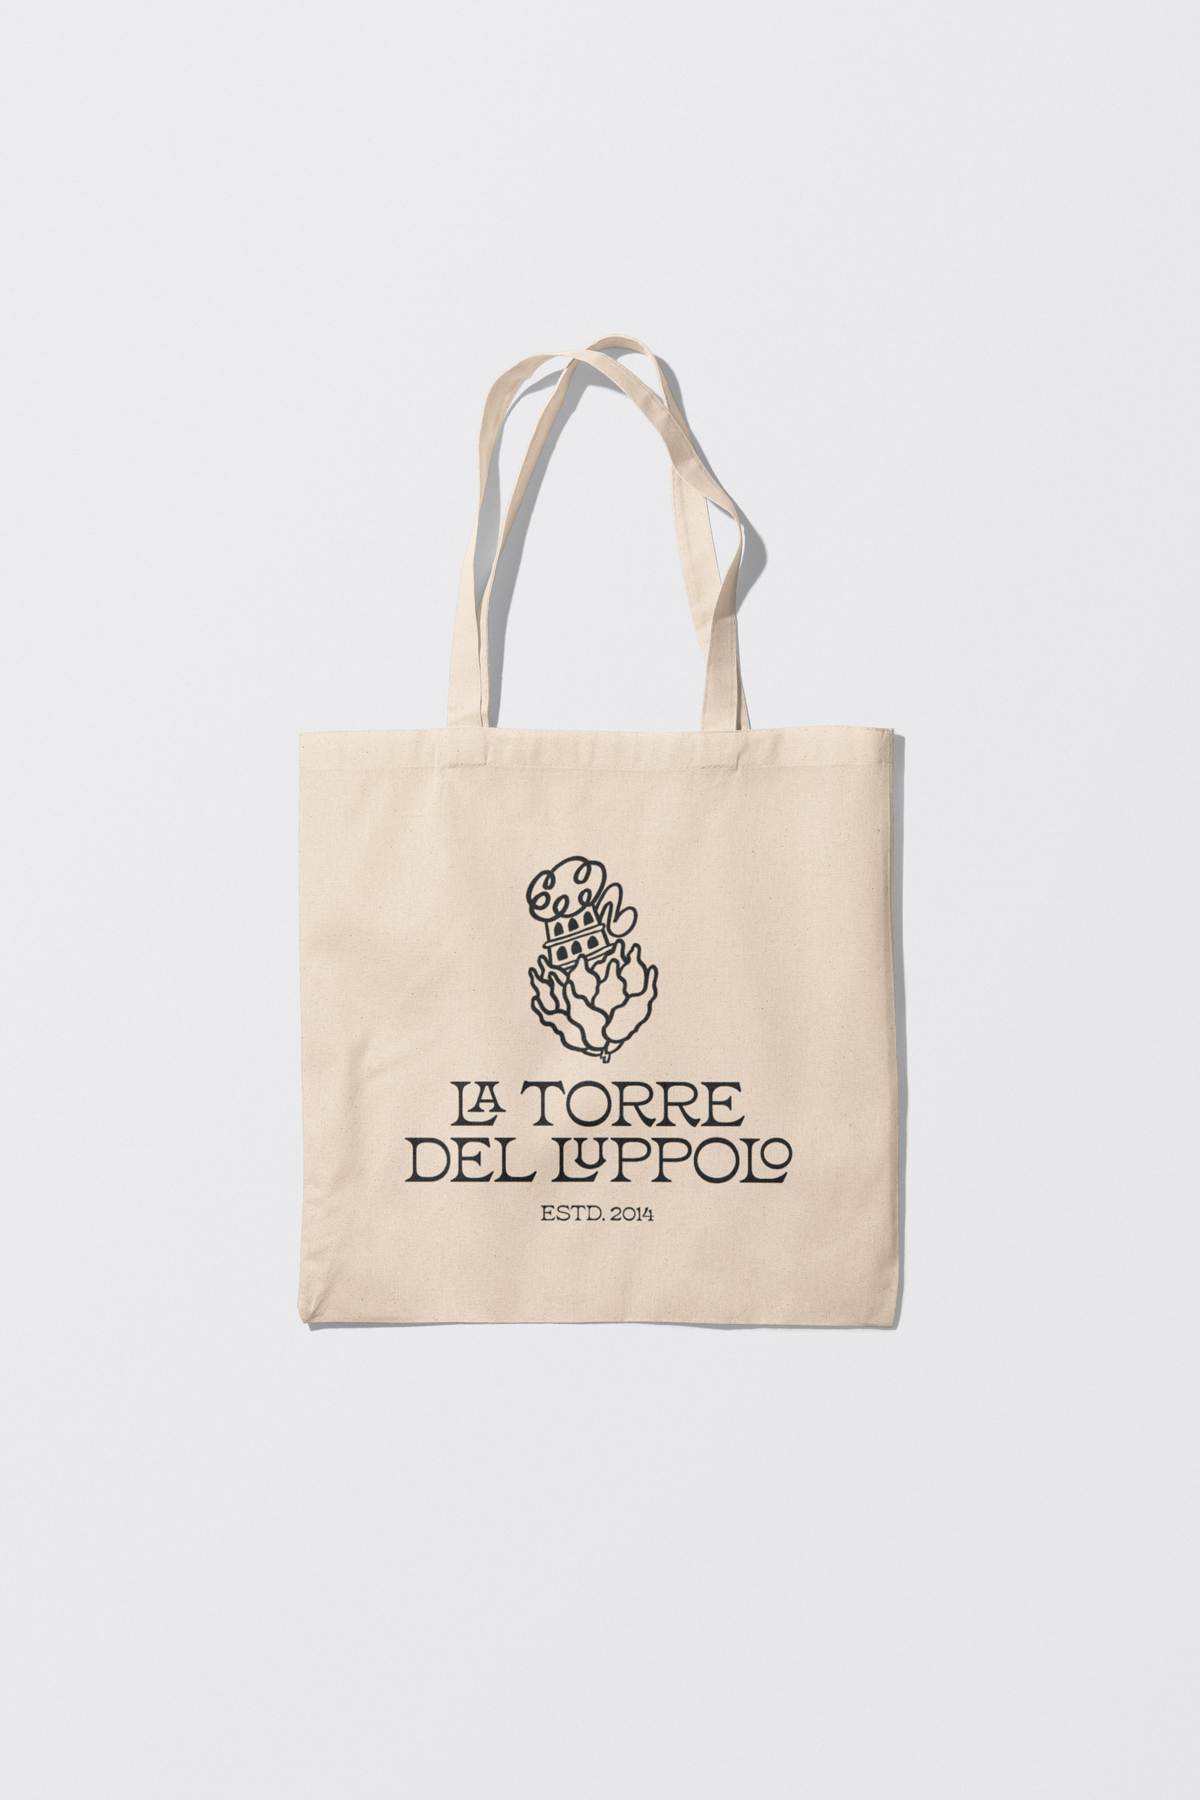
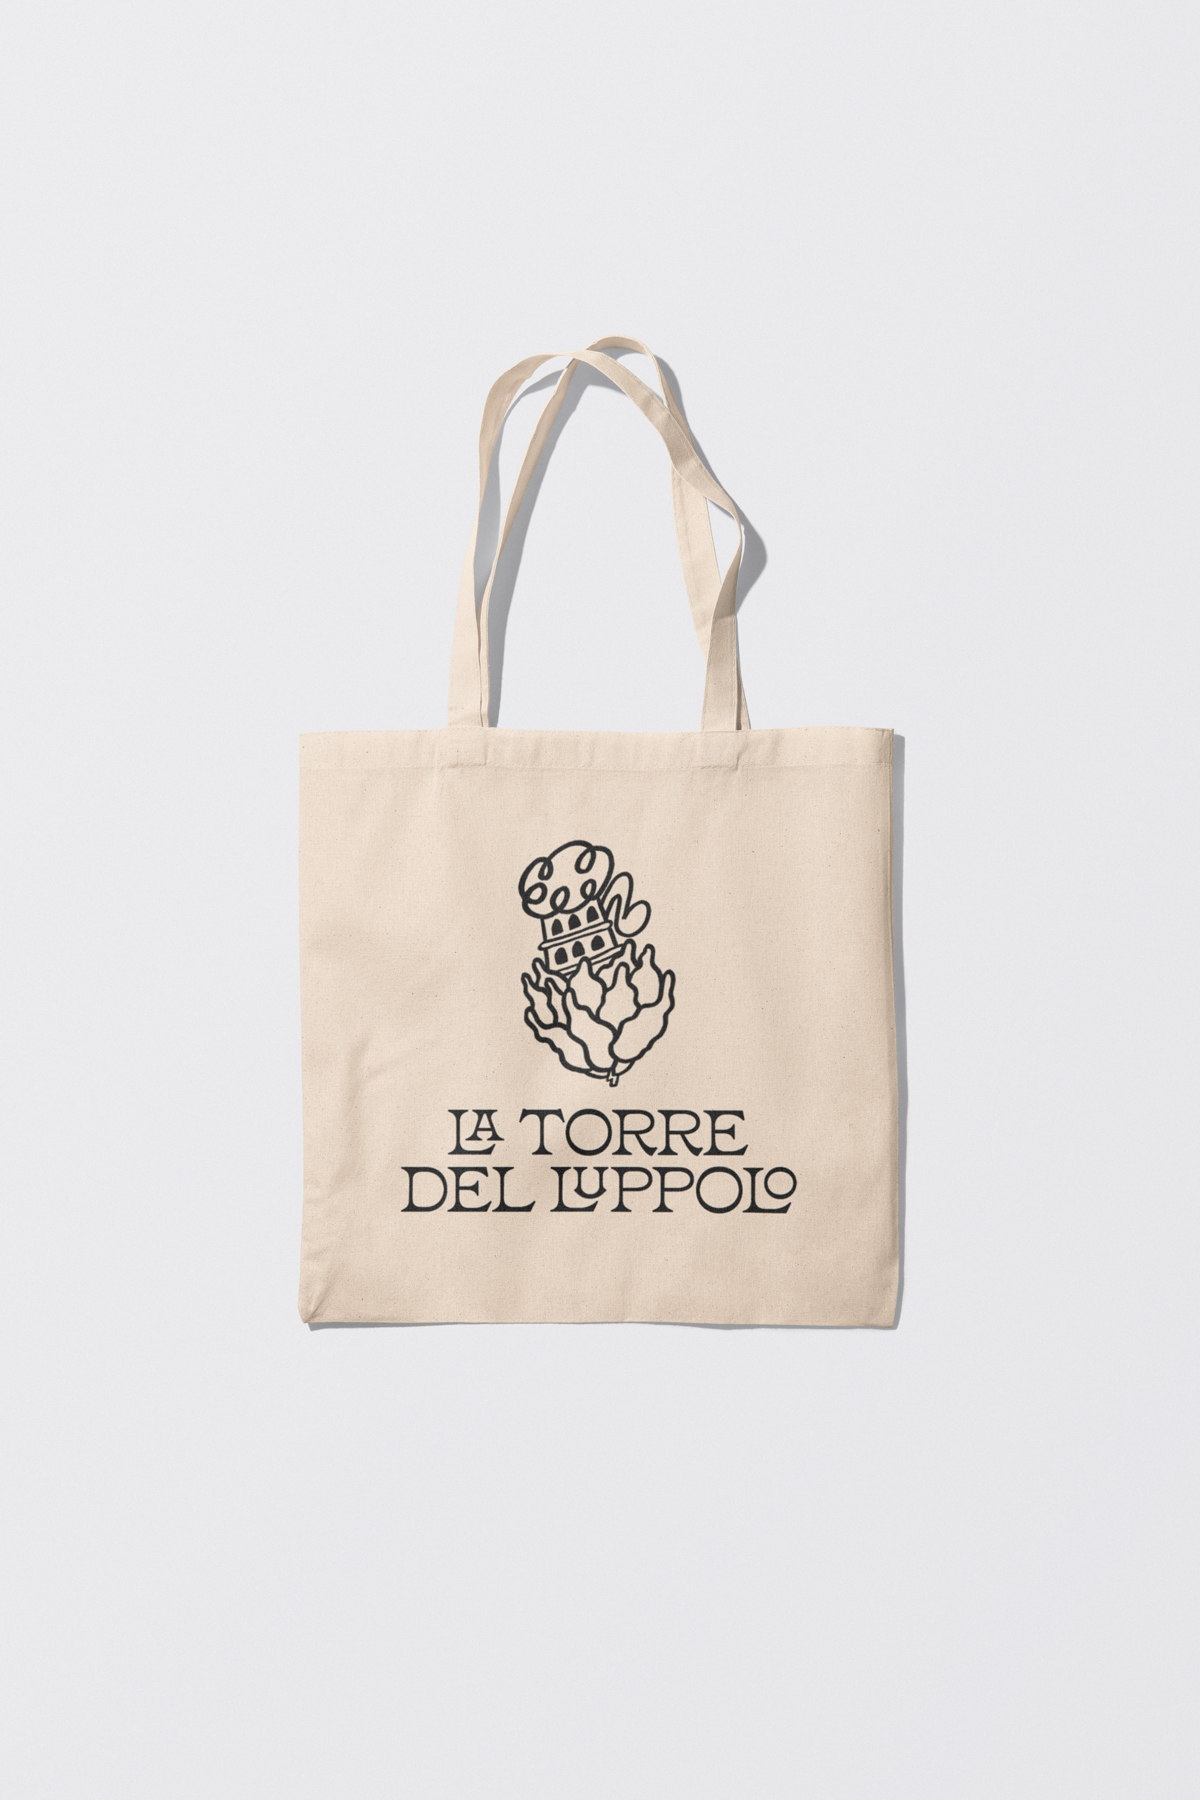
update img 01.3-19.10

Changed region(s): [[0.3392, 0.4667, 0.6783, 0.6844]]

diff --git a/TOTE/TOTE METEORHOP.html b/TOTE/TOTE METEORHOP.html
@@ -223,23 +223,23 @@
                     <!-- Main Slides Container -->
                     <div class="slides">
                         <div class="slide">
-                            <img src="https://raw.githubusercontent.com/tiziole/latorredelluppolo.github.io/refs/heads/main/img/TOTE/10%20YEARS%20TOGETHER/tote01.jpg" alt="Slide 1">
+                            <img src="https://raw.githubusercontent.com/tiziole/latorredelluppolo.github.io/refs/heads/main/img/TOTE/METEORHOP/BIANCA/fronte01.jpg" alt="Slide 1">
                         </div>
                 
                         <div class="slide">
-                            <img src="https://raw.githubusercontent.com/tiziole/latorredelluppolo.github.io/refs/heads/main/img/TOTE/10%20YEARS%20TOGETHER/tote02.jpg" alt="Slide 2">
+                            <img src="https://raw.githubusercontent.com/tiziole/latorredelluppolo.github.io/refs/heads/main/img/TOTE/METEORHOP/BIANCA/fronte02.jpg" alt="Slide 2">
                         </div>
                 
                         <div class="slide">
-                            <img src="https://raw.githubusercontent.com/tiziole/latorredelluppolo.github.io/refs/heads/main/img/TOTE/10%20YEARS%20TOGETHER/tote03.jpg" alt="Slide 2">
+                            <img src="https://raw.githubusercontent.com/tiziole/latorredelluppolo.github.io/refs/heads/main/img/TOTE/METEORHOP/BIANCA/zoom-in.jpg" alt="Slide 3">
                         </div>
 
                         <div class="slide">
-                            <img src="https://raw.githubusercontent.com/tiziole/latorredelluppolo.github.io/refs/heads/main/img/TOTE/10%20YEARS%20TOGETHER/TOTE-USE01.jpg" alt="Slide 2">
+                            <img src="https://raw.githubusercontent.com/tiziole/latorredelluppolo.github.io/refs/heads/main/img/TOTE/METEORHOP/BIANCA/retro.jpg" alt="Slide 4">
                         </div>
 
                         <div class="slide">
-                            <img src="https://raw.githubusercontent.com/tiziole/latorredelluppolo.github.io/refs/heads/main/img/TOTE/10%20YEARS%20TOGETHER/toteX.jpg" alt="Slide 2">
+                            <img src="https://raw.githubusercontent.com/tiziole/latorredelluppolo.github.io/refs/heads/main/img/TOTE/METEORHOP/BIANCA/inuse.jpg" alt="Slide 5">
                         </div>
                 
                         
@@ -254,7 +254,7 @@
                     <!-- FORM tee NERA COLORI -->
                     <form class="prod-form">
                         <label id="01" class="item" style=" display:flex; border-bottom: 2px solid black;">TOTE METEORHOP</label>
-                        <label class="p-prod">Bianca</label>
+                        <label class="p-prod">Tote bag bianca<br></label>
                         <label class="p-prod">Illustrazione a colori</label>
                         <p class="p-prod">La Torre Del Luppolo + Tiziole</p>
                         <label class="p-price">€10</label>
